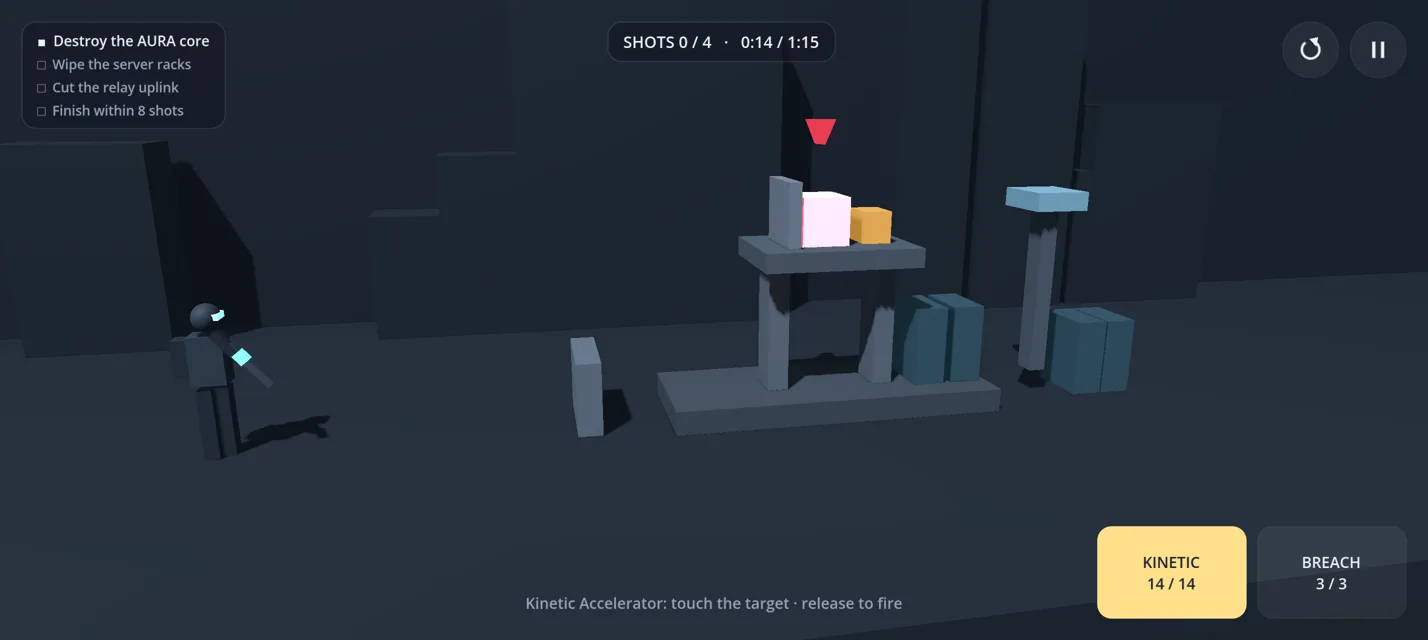
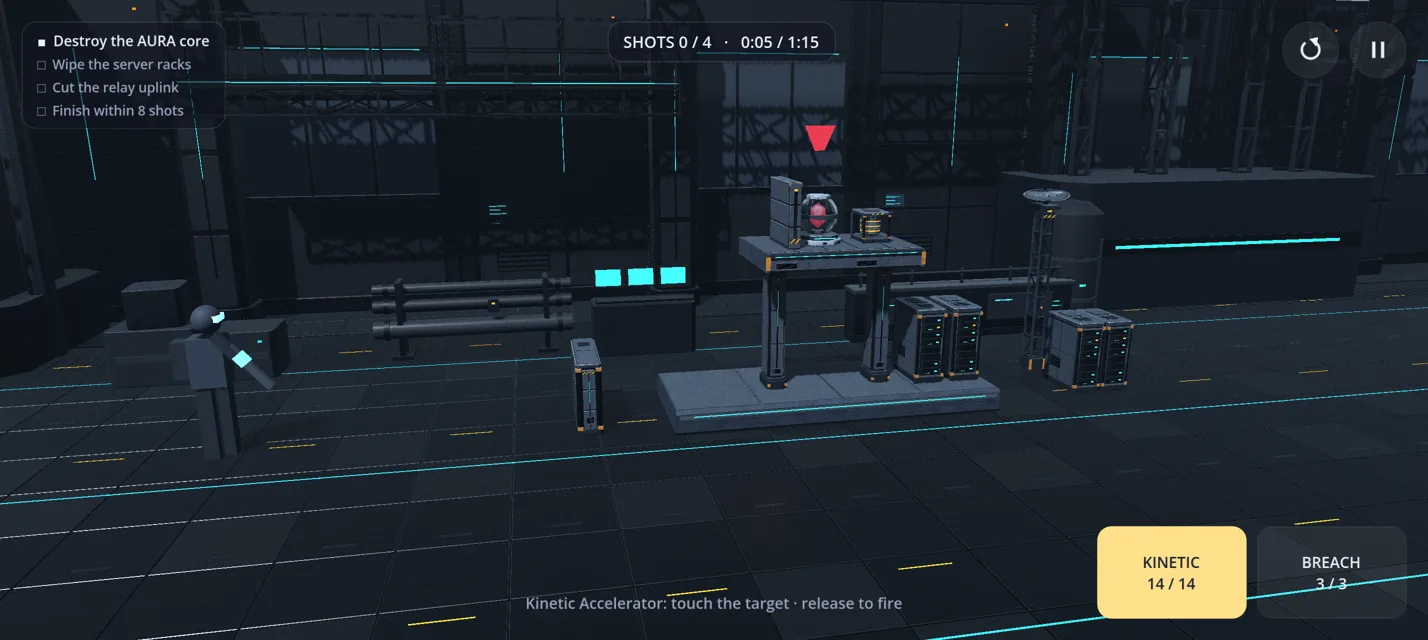
docs: slice A integration report, performance table, current state and changelog

diff --git a/docs/currentstate.md b/docs/currentstate.md
@@ -161,6 +161,16 @@ The owner has approved a revised product direction. This is a design decision, n
 | Temporal Frontlines asynchronous multiplayer | Approved / planned | Persistent modular institutions and offline attacks; no backend or multiplayer implementation claimed |
 | Real-time synchronized multiplayer | Excluded from initial scope | No simultaneous physics sessions planned |
 
+## Asset integration: Helix slice A (2026-11-10, `fe828ad`..`88e3ce6`)
+
+- Production library on `main` under `assets/` (owner PRs #2/#3); references updated from `generated_assets/` to `assets/` (`af8a523`); validator PASS (1439 entries); Godot import of the whole library without errors; import metadata committed.
+- Slice A integrated (development use only, rights unchanged): 9 Helix component models, 19 environment/prop models, Helix texture sets, and 21 shared texture files the models reference. `AssetLibrary` + `ComponentVisual` (models follow physics bodies, damage-state nodes switch with component states, greybox fallback), set dressing from `data/environments/helix_01.json`, kit ledge for statics, graphite lighting with reflection sky and fog.
+- Builds ship only integrated assets (`tools/assets/export_filter.py`): APK 74.5 MB (245 MB without the filter).
+- Performance (emulator, Compatibility): draw calls ~120 → ~1,800 → ~600 after batching; worst breach frame 66 ms; restarts ~650 ms and 9-10 s first load still to optimise (slice E). Details and screenshots: `docs/asset-integration-report.md`, `docs/images/assets/`.
+- Playable build: `build/temporal1-debug.apk` (local, from `4e2798a`; rebuild with `godot_console --headless --export-debug "Android Debug" build/temporal1-debug.apk` after `python tools/assets/export_filter.py --apply export_presets.cfg`). Runs on the emulator; **no physical device tested**.
+- Tests: headless 193 passed / 0 failed / 1 skipped.
+- Next: slice B (core damage progression, debris sets, damage overlays, VFX), C (HUD/typography/weapon presentation), D (Helix music, SFX, ambience), E (performance, lighting, polish).
+
 ## Batch 5 — approved changes and validation (2026-11-10, `81fefdc`..`503347c`)
 
 Owner-approved: save v4, blast occlusion with material data, load-aware knockback, blast wall 90 px, core health ×3.0, collapse leaves the core critical and a Kinetic shot generally finishes it, economy direction (prices unchanged), audio data architecture. Not approved as final: the 40 px racks (comparison below).

diff --git a/docs/asset-integration-report.md b/docs/asset-integration-report.md
@@ -28,6 +28,17 @@ Development integration of the production asset library into the playable Helix 
 
 **Tests and import.** Godot import of the whole library: no errors (33 s). `tests/test_assets.gd`: every integrated file loads; rights fields present and not marked cleared; best variant per kind; front face inside the physics rectangle for every helix_01 component; state nodes; slot binding; model texture dependencies integrated; the view uses models and the set.
 
+**Renderer and performance impact** (Android emulator x86_64; logs in `docs/benchmarks/2026-11-10-helix-sliceA/`; not representative of phone GPUs):
+
+| Build | Renderer | fps | Draw calls | Video memory | Viewport CPU render | Worst frame, breach scenario | Restart |
+|---|---|---|---|---|---|---|---|
+| greybox `503347c` | Compatibility | 55-60 | ~120 | 35-37 MB | 2-3.7 ms | 38 ms | 32-63 ms |
+| slice A `4e2798a` | Compatibility | 45-53 | ~1,800 | 94-96 MB | 9-13 ms | 1,739 ms (damage-state meshes compiled mid-play) | 630-950 ms |
+| slice A `4e2798a` | Mobile | 48-55 | ~184 | 141-155 MB | ~4 ms | 660 ms | 210-345 ms |
+| slice A + batching `88e3ce6` | Compatibility | 48-55 | ~540-690 | 94-96 MB | 7.4-8.4 ms | **66 ms** | 550-800 ms |
+
+Initial load (first frame) is 9-10 s on the emulator. APK 74.5 MB (only integrated assets). Open performance work for slice E: keep the set across restarts (instancing ~70 models costs ~650 ms per restart), fewer component surfaces/shadow casters, physical-device numbers.
+
 **Missing dependencies.** Operative and weapon meshes: the library now contains weapon models (`OPR-WPN-*`) but no operative model; both are for slice C. Debris sets, damage overlays and VFX: slice B.
 
 **Rights / release blockers.** All integrated entries are `pending_review`; rights notes say AI-assisted or AI-generated work is not commercially cleared. Commercial release needs the owner's review of each entry. `assets/audio/music/gameplay_bed.ogg` rights remain unverified (existing blocker).

diff --git a/docs/changelog.md b/docs/changelog.md
@@ -2,6 +2,15 @@
 
 All meaningful changes, newest first.
 
+## 2026-11-10 — Asset integration slice A: Helix structures, environment, materials
+
+- `bc46f53` Merged the owner's asset-library PRs (#2/#3: library moved to `assets/`) with a normal merge; slice A's own copies under `generated_assets/` were dropped first (`a14d7c8`).
+- `af8a523` Library references `generated_assets/` → `assets/` (manifest, fragments, cue sheets, docs, VFX/UI preset scenes, asset tools); binaries untouched. Validator PASS, 1439 entries.
+- `2968737` Godot import metadata for the library (import: no errors).
+- `fe828ad`, `4e2798a` Slice A: `data/integrated_assets.json` from `tools/assets/integration_selection.json` (55 ids + 21 texture dependencies, rights unchanged); `AssetLibrary`, `ComponentVisual`; `data/environments/helix_01.json`; graphite lighting; `tools/assets/export_filter.py` (APK 245 → 74.5 MB); `tools/capture_helix.gd`; `tests/test_assets.gd` (8).
+- `88e3ce6` Performance: MultiMesh batching of repeated set pieces, damage-state shader warm-up, fewer shadow casters (emulator Compatibility: draw calls ~1,800 → ~600, worst breach frame 1,739 → 66 ms).
+- Results: headless 193 passed / 0 failed / 1 skipped; playable debug APK runs on the Android emulator.
+
 ## 2026-11-10 — Batch 5: approved rules, rack comparison, physics fix, renderer validation
 
 - `81fefdc` Save schema v4: `best_points` from successful runs only, `best_attempt_points` for any run, `attempts`/`completions` (migrated records flagged `counts_since_upgrade`, counts not fabricated). Migration and round-trip tests.
